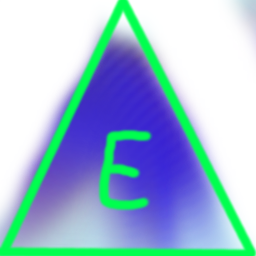
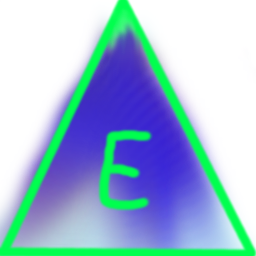
figuras flotando

Changed region(s): [[0.4062, 0.0312, 0.5938, 0.25], [0.9062, 0.0, 1.0, 0.1875]]

diff --git a/core/src/org/furygames/screens/MenuScreen.java b/core/src/org/furygames/screens/MenuScreen.java
@@ -2,6 +2,7 @@ package org.furygames.screens;
 
 import org.furygames.actors.Box2DCreator;
 import org.furygames.actors.CreditsButton;
+import org.furygames.actors.ExitButton;
 import org.furygames.actors.StartButton;
 
 import com.badlogic.gdx.Gdx;
@@ -27,9 +28,11 @@ import com.badlogic.gdx.physics.box2d.BodyDef.BodyType;
 import com.badlogic.gdx.physics.box2d.joints.MouseJoint;
 import com.badlogic.gdx.physics.box2d.joints.MouseJointDef;
 import com.badlogic.gdx.utils.Array;
+import com.badlogic.gdx.utils.Timer;
 
 import org.furygames.screens.BuoyancyController;
 import org.furygames.screens.Box2DFactory;
+import org.furygames.timer.ScreenSwitchTask;
 public class MenuScreen extends GenericScreen implements ContactListener {
 	private static final int MAX_SPAWNED_BODIES = 20;	
 
@@ -37,8 +40,10 @@ public class MenuScreen extends GenericScreen implements ContactListener {
 	private Box2DDebugRenderer debugRenderer;
 	private OrthographicCamera camara;
 	private Array<Body> worldBodies;
+	
 	private StartButton startButton;
 	private CreditsButton creditsButton;
+	private ExitButton exitButton;
 	
 	private BuoyancyController buoyancyController;
 	private int spawnedBodies;	
@@ -169,13 +174,17 @@ public class MenuScreen extends GenericScreen implements ContactListener {
 		// Crear start button
 		
 		startButton = new StartButton(mundo, 
-				MathUtils.random(.5f, WIDTH - 3.5f),
-				MathUtils.random(.5f, HEIGHT - 3.5f),
+				MathUtils.random(.5f, WIDTH - .5f),
+				MathUtils.random(.5f, HEIGHT - .5f),
 				MathUtils.random(1.5f, 3f));
 		creditsButton = new CreditsButton(mundo, 
-				MathUtils.random(.5f, WIDTH - 3.5f),
-				MathUtils.random(.5f, HEIGHT - 3.5f),
+				MathUtils.random(.5f, WIDTH - .5f),
+				MathUtils.random(.5f, HEIGHT - .5f),
 				MathUtils.random(1.5f, 3f));
+		exitButton = new ExitButton (mundo,
+				MathUtils.random(.5f, WIDTH - .5f),
+				MathUtils.random(.5f, HEIGHT - .5f),
+				2.5f, 2.5f);
 		
 		Box2DCreator.createLimits(mundo);
 		
@@ -257,21 +266,40 @@ public class MenuScreen extends GenericScreen implements ContactListener {
 		// TODO Auto-generated method stub
 		
 	}
-	
-	int count = 0;
-	
+		
 	private void checkInput () {
         Vector3 touchPos = new Vector3(Gdx.input.getX(), Gdx.input.getY(), 0);
         camara.unproject(touchPos);
-        Sprite sprite = startButton.getSprite();
         
-        if (touchPos.x > sprite.getX() 
-        		&& touchPos.x < sprite.getX() + sprite.getWidth() 
-        		&& touchPos.y > sprite.getY() 
-        		&& touchPos.y < sprite.getY() + sprite.getHeight()
+        Sprite spStartButton = startButton.getSprite();
+        Sprite spCreditsButton = creditsButton.getSprite();
+        Sprite spExitButton = exitButton.getSprite();
+        
+        if (touchPos.x > spStartButton.getX() 
+        		&& touchPos.x < spStartButton.getX() + spStartButton.getWidth() 
+        		&& touchPos.y > spStartButton.getY() 
+        		&& touchPos.y < spStartButton.getY() + spStartButton.getHeight()
         		&& Gdx.input.justTouched()) {
         	
-        	System.out.println(count++);
+        	System.out.println("startButton");
+        }
+        
+        else if (touchPos.x > spCreditsButton.getX() 
+        		&& touchPos.x < spCreditsButton.getX() + spCreditsButton.getWidth() 
+        		&& touchPos.y > spCreditsButton.getY() 
+        		&& touchPos.y < spCreditsButton.getY() + spCreditsButton.getHeight()
+        		&& Gdx.input.justTouched()) {
+        	
+        	Timer.schedule(new ScreenSwitchTask(EScreen.CREDITS), 2f);
+        }
+        
+        else if (touchPos.x > spExitButton.getX() 
+        		&& touchPos.x < spExitButton.getX() + spExitButton.getWidth() 
+        		&& touchPos.y > spExitButton.getY() 
+        		&& touchPos.y < spExitButton.getY() + spExitButton.getHeight()
+        		&& Gdx.input.justTouched()) {
+        	
+        	System.out.println("exitButton");
         }
   	}
 }

diff --git a/core/src/org/furygames/actors/ExitButton.java b/core/src/org/furygames/actors/ExitButton.java
@@ -14,7 +14,7 @@ import com.badlogic.gdx.utils.Disposable;
 public class ExitButton extends GenericButton implements Disposable {
 	private PolygonShape triangle;
 	
-	public ExitButton (World world, float posX, float posY, float size) {
+	public ExitButton (World world, float posX, float posY, float halfWidth, float halfHeight) {
 		super();
 		
 		triangle = new PolygonShape();
@@ -27,16 +27,18 @@ public class ExitButton extends GenericButton implements Disposable {
 		Texture exitButton = FuryBall.assets.manager.get("buttons/exit_button.png", Texture.class);
 		ttButton = exitButton;
 		spButton = new Sprite(ttButton);
-		spButton.setSize(size, size);
+		spButton.setSize(halfWidth, halfHeight);
 		spButton.setOrigin(spButton.getWidth() / 2, spButton.getHeight() / 2);
 		
 		bd.position.set(posX, posY);
 		bd.type = BodyType.DynamicBody;
 
-		//triangle.setAsBox(size / 2, size / 2);
-		triangle.set(new Vector2[] { new Vector2(-size, -size),
-				new Vector2(0, size),
-				new Vector2(size, -size) });
+		halfWidth /= 2;
+		halfHeight /= 2;
+		
+		triangle.set(new Vector2[] { new Vector2(-halfWidth, -halfHeight),
+				new Vector2(0, halfHeight),
+				new Vector2(halfWidth, -halfHeight) });
 		
 		body = world.createBody(bd);
 		body.createFixture(fixture);

diff --git a/core/src/org/furygames/screens/SplashScreen.java b/core/src/org/furygames/screens/SplashScreen.java
@@ -2,7 +2,6 @@ package org.furygames.screens;
 
 
 import org.furygames.furyball.FuryBall;
-import org.furygames.timer.ScreenSwitchTask;
 
 import aurelienribon.tweenengine.BaseTween;
 import aurelienribon.tweenengine.Tween;
@@ -12,11 +11,9 @@ import aurelienribon.tweenengine.TweenManager;
 
 import com.badlogic.gdx.Gdx;
 import com.badlogic.gdx.audio.Music;
-import com.badlogic.gdx.audio.Sound;
 import com.badlogic.gdx.graphics.Texture;
 import com.badlogic.gdx.graphics.g2d.Sprite;
 import com.badlogic.gdx.graphics.g2d.SpriteBatch;
-import com.badlogic.gdx.physics.box2d.CircleShape;
 import com.badlogic.gdx.utils.Timer;
 import com.badlogic.gdx.utils.Timer.Task;
 
@@ -30,9 +27,7 @@ public class SplashScreen extends GenericScreen {
 		FuryBall.assets.cargarAssets();
 		FuryBall.assets.manager.finishLoading();
 		sprite = new Sprite(FuryBall.assets.manager.get("backgrounds/splash.jpg", Texture.class));
-	  	batcher = new SpriteBatch();
-	  	
-	  	
+	  	batcher = new SpriteBatch(); 	
 	}
 
 	@Override

diff --git a/core/src/org/furygames/screens/Box2DFactory.java b/core/src/org/furygames/screens/Box2DFactory.java
@@ -93,6 +93,4 @@ public class Box2DFactory {
 		return createBody(world, BodyType.StaticBody, fixtureDef, new Vector2(
 				0, 0));
 	}
-
-	// S
 }
